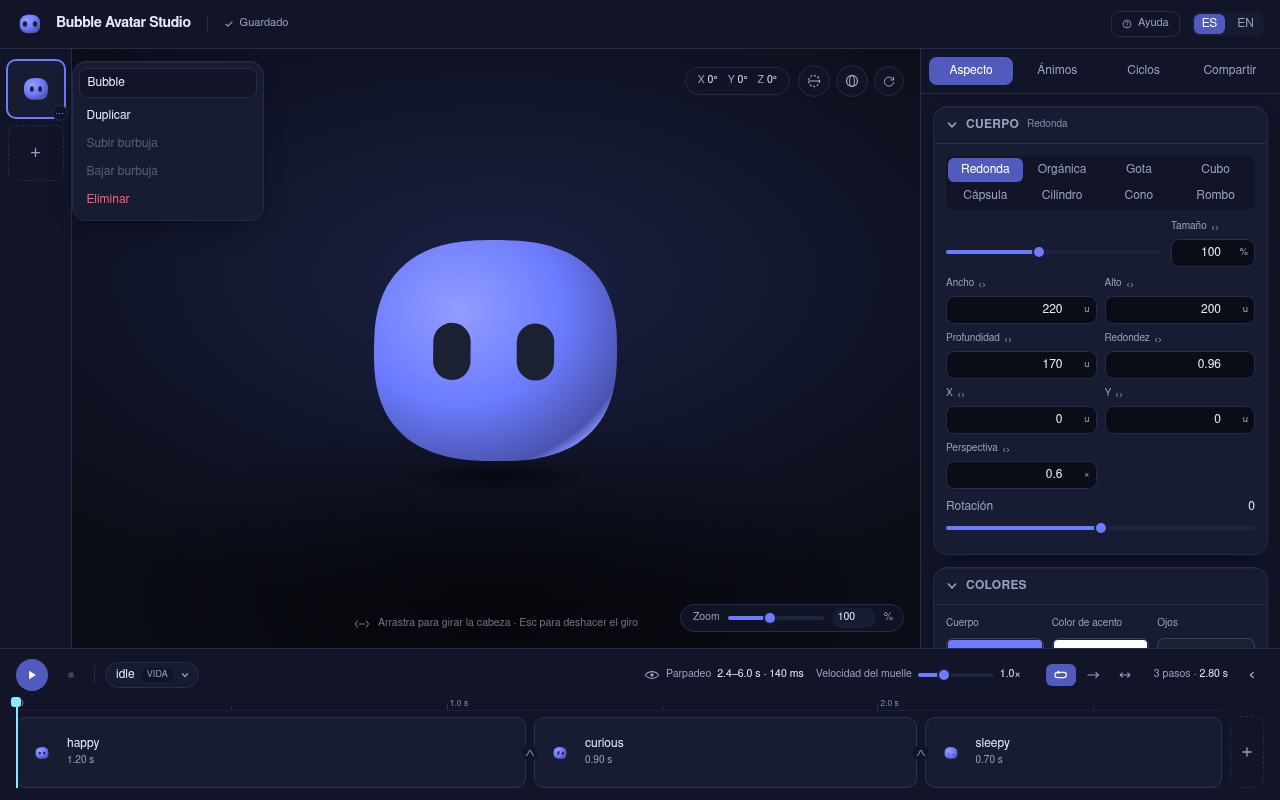
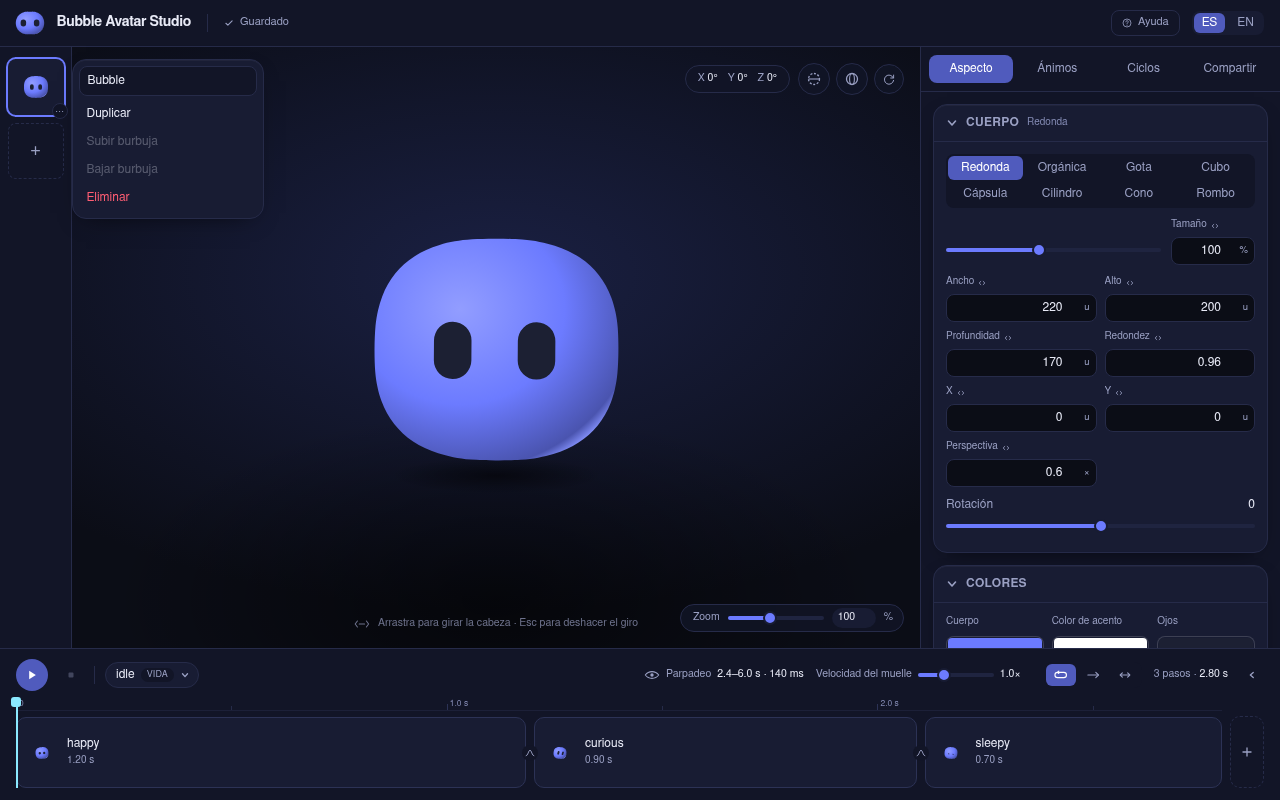
Make the mark a capsule, and let it grow without moving the header
The mark is the capsule family now, and bigger again: 428×340 in a 512 scene,
worn at 34px beside the wordmark.

The family is the point rather than a preference. What a favicon has to survive
is being shrunk to 16 device pixels, and a round body loses its silhouette to
antialiasing down there and reads as a smudge — two flat sides and a hard cap
still read as a shape.

Which is why the mark states its width and height separately instead of scaling
the template. The first attempt kept one scale over the template's near-square
220×200, and a capsule needs a long axis to put its caps on: at that ratio the
straight run was too short to see and the mark came out a circle wearing a
capsule's name. Rendering it at three ratios and looking is what settled 428×340
— rendering it and reading the assertions would not have caught it, because
every assertion still passed.

**A bigger mark was pushing the header down over the stage.** The scene is
square and the capsule is not, so a box tall enough to hold the drawing is
taller than the drawing — at 34px, 23px of character and 11px of transparent
padding, all of it occupying layout. The header went 44px to 55. `BubbleMark`
claims only the height it inks now and lets the drawing overflow, which costs
3px rather than 11, and `markInkRatio()` exports the two fractions so the app
layer asks the render layer for that geometry instead of hard-coding 340/512.

Caught by asserting the header's height in a browser while capturing the
[…]

diff --git a/src/render/mark.ts b/src/render/mark.ts
@@ -8,43 +8,62 @@
 // keeps two of them readable at tab size without changing what the mark is.
 // `mark.test.ts` pins that as a ratio rather than as these numbers.
 import { createBubble } from "../domain/document/create";
-import { restingScene } from "./scene";
+import { restingScene, SCENE_SIZE } from "./scene";
 import { sceneToSvg } from "./svg";
 import type { Bubble } from "../domain/document/types";
 
 /**
- * How much bigger the mark is than the studio's default character.
+ * The mark's own proportions, stated rather than scaled off the template.
  *
  * The scene is 512 units square whatever the body does, and the template's
- * 220-wide body fills 43% of it. That reads fine on a stage, where the empty
- * margin is the room a character turns and bobs in — and reads as a speck in
- * a tab strip or beside a wordmark, where the box is the whole picture. This
- * takes the silhouette to about three quarters of its box, which is what an
- * icon wants, and stops short of the edge so it never looks cropped.
+ * 220-wide body fills 43% of it. That margin reads right on a stage — it is
+ * the room a character turns and bobs in — and reads as a speck in a tab strip
+ * or beside a wordmark, where the box is the whole picture. These fill most of
+ * the width and stop short of the edge, so the silhouette never looks cropped.
+ *
+ * Width and height are given separately because the ratio is the shape here,
+ * not a side effect of it: a capsule needs a long axis to put its caps on, and
+ * one scale over the template's near-square 220×200 left a straight run too
+ * short to see — the mark came out a circle wearing a capsule's name.
  */
-const MARK_SCALE = 1.7;
+const MARK_WIDTH = 428;
+const MARK_HEIGHT = 340;
 
 /** The character the mark draws. Deterministic: a fresh one every call. */
 export function markBubble(): Bubble {
   const bubble = createBubble("Bubble", "bbl_mark0000");
   const { surface } = bubble.body;
-  surface.width *= MARK_SCALE;
-  surface.height *= MARK_SCALE;
-  // Depth travels with the other two: the body is a solid (FR-2.8), and one
-  // that grew only across the screen would flatten as it grew.
-  surface.depth *= MARK_SCALE;
-  bubble.restingFace.eye = {
-    width: 46 * MARK_SCALE,
-    height: 60 * MARK_SCALE,
-    roundness: 1,
-  };
-  bubble.restingFace.spacing = 92 * MARK_SCALE;
-  bubble.restingFace.left.offsetX = -8 * MARK_SCALE;
-  bubble.restingFace.right.offsetX = 8 * MARK_SCALE;
+  // The capsule's straight run is what survives being shrunk: a round body
+  // loses its silhouette to antialiasing at icon size and reads as a smudge,
+  // where two flat sides and a hard cap still read as a shape. The caps sit on
+  // the *long* axis (see `barrelPoints`), and this body is wider than it is
+  // tall, so the mark is a capsule lying down.
+  surface.shape = "capsule";
+  surface.width = MARK_WIDTH;
+  surface.height = MARK_HEIGHT;
+  // Depth is the mean of the two: the body is a solid (FR-2.8), and one that
+  // grew only across the screen would flatten as it grew.
+  surface.depth = (MARK_WIDTH + MARK_HEIGHT) / 2;
+  bubble.restingFace.eye = { width: 82, height: 107, roundness: 1 };
+  bubble.restingFace.spacing = 172;
+  bubble.restingFace.left.offsetX = -14;
+  bubble.restingFace.right.offsetX = 14;
   // A logo does not breathe. Ambient is a function of time, and a mark that
   // depends on the clock is a mark that cannot be a golden.
   bubble.ambient = { ...bubble.ambient, enabled: false };
   return bubble;
+}
+
+/**
+ * How much of the mark's square box the silhouette actually inks, per axis.
+ *
+ * The scene is square and the capsule is not, so a box tall enough to hold the
+ * drawing is taller than the drawing — transparent padding that still occupies
+ * layout. A caller that must not grow (the header is a row the stage pays for)
+ * uses these to size the hole it leaves rather than guessing at the geometry.
+ */
+export function markInkRatio(): { x: number; y: number } {
+  return { x: MARK_WIDTH / SCENE_SIZE, y: MARK_HEIGHT / SCENE_SIZE };
 }
 
 /**

diff --git a/src/app/studio/BubbleMark.test.tsx b/src/app/studio/BubbleMark.test.tsx
@@ -4,20 +4,34 @@
 import { describe, expect, it, beforeEach } from "vitest";
 import { cleanup, render, screen } from "@testing-library/react";
 import { BubbleMark } from "./BubbleMark";
-import { markSvg } from "../../render/mark";
+import { markInkRatio, markSvg } from "../../render/mark";
 
 beforeEach(cleanup);
 
 describe("BubbleMark", () => {
   it("draws the mark the renderer produces, at the size asked for", () => {
     render(<BubbleMark size={18} />);
-    const host = screen.getByTestId("bubble-mark");
+    const svg = screen.getByTestId("bubble-mark").querySelector("svg");
     // Through the same parse on both sides: the DOM expands `<stop/>` to
     // `<stop></stop>` on the way in, so the raw string never matches back.
     const parsed = document.createElement("div");
     parsed.innerHTML = markSvg(18);
-    expect(host.innerHTML).toBe(parsed.innerHTML);
-    expect(host.querySelector("svg")?.getAttribute("width")).toBe("18");
+    expect(svg?.outerHTML).toBe(parsed.querySelector("svg")?.outerHTML);
+    expect(svg?.getAttribute("width")).toBe("18");
+  });
+
+  it("claims only the height it inks, so the header does not grow", () => {
+    // The scene is square and the capsule is not: a box tall enough to hold
+    // the drawing is taller than the drawing. Occupying the difference would
+    // push the header down over the stage for nothing anyone can see.
+    render(<BubbleMark size={100} />);
+    const host = screen.getByTestId("bubble-mark");
+    const ink = markInkRatio();
+    expect(host.style.height).toBe(`${String(100 * ink.y)}px`);
+    expect(host.style.width).toBe(`${String(100 * ink.x)}px`);
+    expect(ink.y).toBeLessThan(1);
+    // The drawing itself is still the full box — it overflows, it is not cropped.
+    expect(host.querySelector("svg")?.getAttribute("height")).toBe("100");
   });
 
   it("is hidden from assistive tech — the title beside it is the name", () => {

diff --git a/src/app/studio/BubbleMark.tsx b/src/app/studio/BubbleMark.tsx
@@ -6,16 +6,27 @@
 // from our own pure serializer, never from a document or a user, and there is
 // no other way to put an SVG document into the tree without re-parsing it.
 import { useMemo } from "react";
-import { markSvg } from "../../render/mark";
+import { markInkRatio, markSvg } from "../../render/mark";
 
 export function BubbleMark({ size = 18 }: { size?: number }) {
   const svg = useMemo(() => markSvg(size), [size]);
+  // The scene is square and the capsule is not, so the drawing is shorter than
+  // the box that holds it. Occupying the whole box would make the header taller
+  // by the transparent remainder — a row of stage paid for nothing anyone can
+  // see — so the span claims only the inked height and lets the rest overflow.
+  const ink = markInkRatio();
   return (
     <span
       aria-hidden="true"
       data-testid="bubble-mark"
-      className="inline-flex shrink-0"
-      dangerouslySetInnerHTML={{ __html: svg }}
-    />
+      className="relative inline-block shrink-0"
+      style={{ width: size * ink.x, height: size * ink.y }}
+    >
+      <span
+        className="absolute top-1/2 left-1/2 -translate-x-1/2 -translate-y-1/2"
+        style={{ width: size, height: size }}
+        dangerouslySetInnerHTML={{ __html: svg }}
+      />
+    </span>
   );
 }

diff --git a/src/render/mark.test.ts b/src/render/mark.test.ts
@@ -58,12 +58,16 @@ describe("the mark reads at 16px", () => {
     }
   });
 
+  it("is a capsule — the family whose straight run reads at icon size", () => {
+    expect(markBubble().body.surface.shape).toBe("capsule");
+  });
+
   it("fills its box, so the glyph is not a dot in a field of nothing", () => {
     // The scene is 512 wide whatever the character does, and the default
     // template's 220 fills 43% of it — legible on a stage, a speck in a tab
     // strip or beside a wordmark. An icon wants most of its own box.
     const width = markBubble().body.surface.width;
-    expect(width / scene.size).toBeGreaterThan(0.65);
+    expect(width / scene.size).toBeGreaterThan(0.75);
     // Not so far that the silhouette touches the edge and looks cropped.
     expect(width / scene.size).toBeLessThan(0.85);
   });

diff --git a/src/app/studio/StudioView.tsx b/src/app/studio/StudioView.tsx
@@ -172,7 +172,7 @@ export function StudioView() {
   return (
     <div className="flex h-dvh flex-col bg-stage text-ink">
       <header className="flex shrink-0 items-center gap-3 border-b border-line bg-panel px-4 py-2.5">
-        <BubbleMark size={28} />
+        <BubbleMark size={34} />
         <h1 className="text-sm font-semibold tracking-tight">
           {t("app.title")}
         </h1>

diff --git a/docs/LEGACY-DOCS.md b/docs/LEGACY-DOCS.md
@@ -295,9 +295,14 @@ audio lip-sync, marketplace, mobile-native editors. (Revisit post-v1.)
   things, not one sentence, so the list can be read down a column of key caps.
 - **FR-9.8** The studio wears its own character as its mark: the header logo
   and the browser favicon are the same render, produced by `render/mark.ts`
-  rather than authored as an asset. The mark carries its own face — wider eyes,
-  set further apart than the default template's — because a favicon is
-  rasterized to as few as 16 device pixels and the default pair merges there.
+  rather than authored as an asset. The mark is its own character, not the
+  default template, and every difference is legibility at 16 device pixels:
+  the **capsule** family, whose straight run survives being shrunk where a
+  round body blurs into a smudge; a body filling most of its box rather than
+  the template's 43%; and wider eyes set further apart, because the default
+  pair merges into one bar down there. Its layout height is the height it
+  inks, not the square scene box, so a larger mark does not push the header
+  down over the stage.
 - **FR-9.9** The same help sheet carries a guide to the studio as a second tab:
   what a bubble is, and what each surface of the shell is for, in es/en.
 
@@ -1467,13 +1472,13 @@ transition, a non-integer seed), which one file per code cannot express.
 
 ### 4b. Current state (re-derive; do not trust)
 
-As of the help sheet and the mark (F9): **39 Vitest files, 682 tests**, plus
+As of the help sheet and the mark (F9): **39 Vitest files, 684 tests**, plus
 **1 Playwright spec** of **12 scenarios** — boot, panels, a playing loop and
 the rail menu, joined by the mood editor's focus behaviour, the gizmo, the
 wireframe, the Share preview, drag-to-scrub, drag-to-reorder, a 1024×720
 check that the track's first row and the inspector do not clip, and the help
-sheet's backdrop reaching every window edge. Production bundle 357.16 kB JS /
-38.86 kB CSS (107.01 / 7.72 gzipped).
+sheet's backdrop reaching every window edge. Production bundle 357.39 kB JS /
+38.88 kB CSS (107.06 / 7.73 gzipped).
 
 Three of those scenarios exist because jsdom cannot decide them. The playing
 loop asserts the **playhead has moved**: jsdom can prove the writer runs, not
